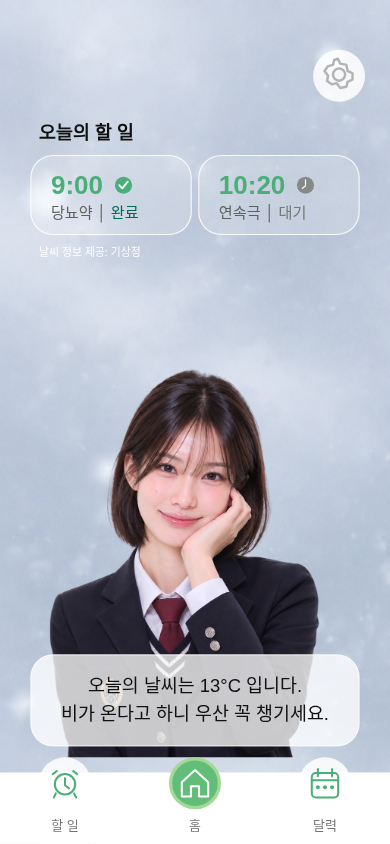
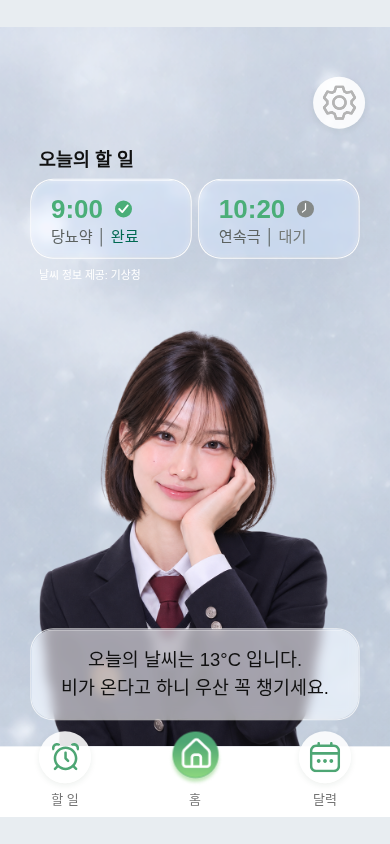
Refine home visuals using original design assets and updated captures

diff --git a/weather-schedule-app/src/components/home/HomeIcon.tsx b/weather-schedule-app/src/components/home/HomeIcon.tsx
@@ -1,11 +1,9 @@
-import Svg, { Circle, Path, Rect } from 'react-native-svg';
+import Svg, { Circle, Path, SvgXml } from 'react-native-svg';
+const originalIcons = {"home": "<svg width=\"30\" height=\"31\" viewBox=\"0 0 30 31\" fill=\"none\" xmlns=\"http://www.w3.org/2000/svg\">\n<path d=\"M28.3943 25.8993V15.7222C28.3943 14.9021 28.2285 14.0906 27.9069 13.337C27.5854 12.5835 27.1148 11.9036 26.5239 11.3388L16.9434 2.18345C16.385 1.64971 15.6442 1.35211 14.8739 1.35211C14.1037 1.35211 13.3629 1.64971 12.8044 2.18345L3.22247 11.3388C2.63153 11.9036 2.16097 12.5835 1.83942 13.337C1.51787 14.0906 1.35205 14.9021 1.35205 15.7222V25.8993C1.35205 26.7011 1.66862 27.47 2.23211 28.0369C2.7956 28.6039 3.55985 28.9224 4.35675 28.9224H25.3896C26.1865 28.9224 26.9508 28.6039 27.5142 28.0369C28.0777 27.47 28.3943 26.7011 28.3943 25.8993Z\" stroke-width=\"2.70423\" stroke-linecap=\"round\" stroke-linejoin=\"round\" stroke=\"white\"/>\n<path d=\"M10.3665 19.8526C10.3665 19.0508 10.683 18.2819 11.2465 17.715C11.81 17.148 12.5743 16.8295 13.3712 16.8295H16.3758C17.1727 16.8295 17.937 17.148 18.5005 17.715C19.064 18.2819 19.3805 19.0508 19.3805 19.8526V28.9217H10.3665V19.8526Z\" stroke-width=\"2.70423\" stroke-linecap=\"round\" stroke-linejoin=\"round\" stroke=\"white\"/>\n</svg>\n", "calendar": "<svg width=\"28\" height=\"29\" viewBox=\"0 0 28 29\" fill=\"none\" xmlns=\"http://www.w3.org/2000/svg\">\n<g clip-path=\"url(#clip0_7_419)\">\n<path d=\"M22.1667 2.33571H21V1.16785C21 0.85812 20.8771 0.561072 20.6583 0.342057C20.4395 0.123041 20.1428 0 19.8333 0C19.5239 0 19.2272 0.123041 19.0084 0.342057C18.7896 0.561072 18.6667 0.85812 18.6667 1.16785V2.33571H9.33333V1.16785C9.33333 0.85812 9.21042 0.561072 8.99162 0.342057C8.77283 0.123041 8.47609 0 8.16667 0C7.85725 0 7.5605 0.123041 7.34171 0.342057C7.12292 0.561072 7 0.85812 7 1.16785V2.33571H5.83333C4.28681 2.33756 2.80415 2.95337 1.71059 4.04804C0.617029 5.14272 0.0018525 6.62688 0 8.17498L0 22.1892C0.0018525 23.7373 0.617029 25.2215 1.71059 26.3162C2.80415 27.4109 4.28681 28.0267 5.83333 28.0285H22.1667C23.7132 28.0267 25.1959 27.4109 26.2894 26.3162C27.383 25.2215 27.9981 23.7373 28 22.1892V8.17498C27.9981 6.62688 27.383 5.14272 26.2894 4.04804C25.1959 2.95337 23.7132 2.33756 22.1667 2.33571V2.33571ZM2.33333 8.17498C2.33333 7.24578 2.70208 6.35463 3.35846 5.69759C4.01484 5.04054 4.90508 4.67142 5.83333 4.67142H22.1667C23.0949 4.67142 23.9852 5.04054 24.6415 5.69759C25.2979 6.35463 25.6667 7.24578 25.6667 8.17498V9.34284H2.33333V8.17498ZM22.1667 25.6928H5.83333C4.90508 25.6928 4.01484 25.3237 3.35846 24.6666C2.70208 24.0096 2.33333 23.1184 2.33333 22.1892V11.6785H25.6667V22.1892C25.6667 23.1184 25.2979 24.0096 24.6415 24.6666C23.9852 25.3237 23.0949 25.6928 22.1667 25.6928Z\" fill=\"#4EA674\"/>\n<path d=\"M14 19.2696C14.9665 19.2696 15.75 18.4853 15.75 17.5178C15.75 16.5504 14.9665 15.7661 14 15.7661C13.0335 15.7661 12.25 16.5504 12.25 17.5178C12.25 18.4853 13.0335 19.2696 14 19.2696Z\" fill=\"#4EA674\"/>\n<path d=\"M8.1665 19.2696C9.133 19.2696 9.9165 18.4853 9.9165 17.5178C9.9165 16.5504 9.133 15.7661 8.1665 15.7661C7.20001 15.7661 6.4165 16.5504 6.4165 17.5178C6.4165 18.4853 7.20001 19.2696 8.1665 19.2696Z\" fill=\"#4EA674\"/>\n<path d=\"M19.8335 19.2696C20.8 19.2696 21.5835 18.4853 21.5835 17.5178C21.5835 16.5504 20.8 15.7661 19.8335 15.7661C18.867 15.7661 18.0835 16.5504 18.0835 17.5178C18.0835 18.4853 18.867 19.2696 19.8335 19.2696Z\" fill=\"#4EA674\"/>\n</g>\n<defs>\n<clipPath id=\"clip0_7_419\">\n<rect width=\"28\" height=\"28.0285\" fill=\"white\"/>\n</clipPath>\n</defs>\n</svg>\n", "settings": "<svg width=\"31\" height=\"32\" viewBox=\"0 0 31 32\" fill=\"none\" xmlns=\"http://www.w3.org/2000/svg\" xmlns:xlink=\"http://www.w3.org/1999/xlink\">\n<use xlink:href=\"#stroke0_7_426\" fill=\"#B4B4B4\"/>\n<mask id=\"stroke1_7_426\" fill=\"white\">\n<use xlink:href=\"#stroke0_7_426\"/>\n</mask>\n<path d=\"M18.4673 7.75293e-07C18.7056 -0.000278979 18.9379 0.0751574 19.1307 0.21543C19.3234 0.355702 19.4666 0.553561 19.5396 0.780469L20.7771 4.62656C21.2935 4.87831 21.7916 5.16614 22.2677 5.48789L26.2192 4.63711C26.4522 4.58776 26.6948 4.61359 26.9121 4.71088C27.1294 4.80817 27.3103 4.9719 27.4286 5.17852L30.547 10.575C30.6662 10.7813 30.7168 11.0202 30.6915 11.2571C30.6662 11.494 30.5664 11.7168 30.4063 11.8934L27.6958 14.8852C27.7353 15.4587 27.7353 16.0343 27.6958 16.6078L30.4028 19.6066C30.5634 19.7828 30.6639 20.0054 30.6898 20.2423C30.7157 20.4793 30.6657 20.7183 30.547 20.925L27.4286 26.325C27.3098 26.531 27.1287 26.694 26.9114 26.7906C26.6941 26.8873 26.4518 26.9126 26.2192 26.8629L22.2677 26.0121C21.7942 26.3309 21.2974 26.618 20.7771 26.8734L19.5396 30.7195C19.4666 30.9464 19.3234 31.1443 19.1307 31.2846C18.9379 31.4248 18.7056 31.5003 18.4673 31.5H12.2306C11.9922 31.5003 11.7599 31.4248 11.5672 31.2846C11.3745 31.1443 11.2313 30.9464 11.1583 30.7195L9.92432 26.877C9.40544 26.6228 8.905 26.3327 8.42666 26.0086L4.47862 26.8629C4.24568 26.9122 4.00309 26.8864 3.78576 26.7891C3.56844 26.6918 3.38759 26.5281 3.26924 26.3215L0.15088 20.925C0.0316831 20.7187 -0.0189259 20.4798 0.0063471 20.2429C0.0316201 20.006 0.13147 19.7832 0.291505 19.6066L3.00205 16.6078C2.96292 16.0366 2.96292 15.4634 3.00205 14.8922L0.295021 11.8934C0.134431 11.7172 0.0339353 11.4946 0.00802911 11.2577C-0.017877 11.0207 0.0321447 10.7817 0.15088 10.575L3.26924 5.175C3.3881 4.96903 3.56917 4.80602 3.78645 4.70938C4.00374 4.61274 4.24605 4.58744 4.47862 4.63711L8.42666 5.49141C8.90518 5.16764 9.4056 4.87749 9.92432 4.62305L11.1618 0.780469C11.2344 0.554702 11.3766 0.357662 11.5679 0.217495C11.7592 0.0773282 11.9899 0.00120562 12.2271 7.75293e-07H18.4673ZM17.6446 2.25H13.0532L11.7771 6.22266L10.9157 6.64453C10.491 6.85289 10.081 7.09017 9.68877 7.35469L8.89424 7.89258L4.80908 7.01367L2.51338 10.9863L5.31533 14.0906L5.24502 15.0434C5.21267 15.5139 5.21267 15.9861 5.24502 16.4566L5.31533 17.4094L2.50987 20.5102L4.80205 24.4898L8.88721 23.6109L9.68526 24.1453C10.0765 24.4085 10.4852 24.6446 10.9087 24.852L11.77 25.2738L13.0532 29.25H17.6481L18.9349 25.2703L19.7927 24.852C20.2163 24.6463 20.6252 24.4114 21.0161 24.1488L21.8106 23.6109L25.8993 24.4898L28.1915 20.5102L25.3896 17.4094L25.4599 16.4566C25.4924 15.9849 25.4924 15.5116 25.4599 15.0398L25.3896 14.0871L28.195 10.9898L25.8958 7.01016L21.8071 7.88906L21.0126 7.35469C20.6217 7.09094 20.2129 6.85482 19.7892 6.64805L18.9349 6.22266L17.6446 2.25ZM15.3489 9C17.1391 9 18.856 9.71116 20.1219 10.977C21.3878 12.2429 22.0989 13.9598 22.0989 15.75C22.0989 17.5402 21.3878 19.2571 20.1219 20.523C18.856 21.7888 17.1391 22.5 15.3489 22.5C13.5587 22.5 11.8418 21.7888 10.576 20.523C9.31009 19.2571 8.59893 17.5402 8.59893 15.75C8.59893 13.9598 9.31009 12.2429 10.576 10.977C11.8418 9.71116 13.5587 9 15.3489 9ZM15.3489 11.25C14.1555 11.25 13.0109 11.7241 12.1669 12.568C11.323 13.4119 10.8489 14.5565 10.8489 15.75C10.8489 16.9435 11.323 18.0881 12.1669 18.932C13.0109 19.7759 14.1555 20.25 15.3489 20.25C16.5424 20.25 17.687 19.7759 18.5309 18.932C19.3748 18.0881 19.8489 16.9435 19.8489 15.75C19.8489 14.5565 19.3748 13.4119 18.5309 12.568C17.687 11.7241 16.5424 11.25 15.3489 11.25Z\" stroke-width=\"10\" stroke=\"#B4B4B4\" mask=\"url(#stroke1_7_426)\"/>\n<defs>\n<path id=\"stroke0_7_426\" d=\"M18.4673 7.75293e-07C18.7056 -0.000278979 18.9379 0.0751574 19.1307 0.21543C19.3234 0.355702 19.4666 0.553561 19.5396 0.780469L20.7771 4.62656C21.2935 4.87831 21.7916 5.16614 22.2677 5.48789L26.2192 4.63711C26.4522 4.58776 26.6948 4.61358 26.9121 4.71088C27.1294 4.80817 27.3103 4.9719 27.4286 5.17852L30.547 10.575C30.6662 10.7813 30.7168 11.0202 30.6915 11.2571C30.6662 11.494 30.5664 11.7168 30.4063 11.8934L27.6958 14.8852C27.7353 15.4587 27.7353 16.0343 27.6958 16.6078L30.4028 19.6066C30.5634 19.7828 30.6639 20.0054 30.6898 20.2423C30.7157 20.4793 30.6657 20.7183 30.547 20.925L27.4286 26.325C27.3098 26.531 27.1287 26.694 26.9114 26.7906C26.6941 26.8873 26.4518 26.9126 26.2192 26.8629L22.2677 26.0121C21.7942 26.3309 21.2974 26.618 20.7771 26.8734L19.5396 30.7195C19.4666 30.9464 19.3234 31.1443 19.1307 31.2846C18.9379 31.4248 18.7056 31.5003 18.4673 31.5H12.2306C11.9922 31.5003 11.7599 31.4248 11.5672 31.2846C11.3745 31.1443 11.2313 30.9464 11.1583 30.7195L9.92432 26.877C9.40544 26.6228 8.905 26.3327 8.42666 26.0086L4.47861 26.8629C4.24568 26.9122 4.00309 26.8864 3.78576 26.7891C3.56844 26.6918 3.38759 26.5281 3.26924 26.3215L0.15088 20.925C0.0316831 20.7187 -0.0189259 20.4798 0.0063471 20.2429C0.0316201 20.006 0.13147 19.7832 0.291505 19.6066L3.00205 16.6078C2.96292 16.0366 2.96292 15.4634 3.00205 14.8922L0.295021 11.8934C0.134431 11.7172 0.0339353 11.4946 0.00802911 11.2577C-0.017877 11.0207 0.0321447 10.7817 0.15088 10.575L3.26924 5.175C3.3881 4.96903 3.56917 4.80602 3.78645 4.70938C4.00374 4.61274 4.24606 4.58744 4.47861 4.63711L8.42666 5.49141C8.90518 5.16764 9.4056 4.87749 9.92432 4.62305L11.1618 0.780469C11.2344 0.554702 11.3766 0.357662 11.5679 0.217495C11.7592 0.0773282 11.9899 0.00120562 12.2271 7.75293e-07H18.4673ZM17.6446 2.25H13.0532L11.7771 6.22266L10.9157 6.64453C10.491 6.85289 10.081 7.09017 9.68877 7.35469L8.89424 7.89258L4.80908 7.01367L2.51338 10.9863L5.31533 14.0906L5.24502 15.0434C5.21267 15.5139 5.21267 15.9861 5.24502 16.4566L5.31533 17.4094L2.50987 20.5102L4.80205 24.4898L8.88721 23.6109L9.68526 24.1453C10.0765 24.4085 10.4852 24.6446 10.9087 24.852L11.77 25.2738L13.0532 29.25H17.6481L18.9349 25.2703L19.7927 24.852C20.2163 24.6463 20.6252 24.4114 21.0161 24.1488L21.8106 23.6109L25.8993 24.4898L28.1915 20.5102L25.3896 17.4094L25.4599 16.4566C25.4924 15.9849 25.4924 15.5115 25.4599 15.0398L25.3896 14.0871L28.195 10.9898L25.8958 7.01016L21.8071 7.88906L21.0126 7.35469C20.6217 7.09094 20.2129 6.85482 19.7892 6.64805L18.9349 6.22266L17.6446 2.25ZM15.3489 9C17.1391 9 18.856 9.71116 20.1219 10.977C21.3878 12.2429 22.0989 13.9598 22.0989 15.75C22.0989 17.5402 21.3878 19.2571 20.1219 20.523C18.856 21.7888 17.1391 22.5 15.3489 22.5C13.5587 22.5 11.8418 21.7888 10.576 20.523C9.31009 19.2571 8.59893 17.5402 8.59893 15.75C8.59893 13.9598 9.31009 12.2429 10.576 10.977C11.8418 9.71116 13.5587 9 15.3489 9ZM15.3489 11.25C14.1555 11.25 13.0109 11.7241 12.1669 12.568C11.323 13.4119 10.8489 14.5565 10.8489 15.75C10.8489 16.9435 11.323 18.0881 12.1669 18.932C13.0109 19.7759 14.1555 20.25 15.3489 20.25C16.5424 20.25 17.687 19.7759 18.5309 18.932C19.3748 18.0881 19.8489 16.9435 19.8489 15.75C19.8489 14.5565 19.3748 13.4119 18.5309 12.568C17.687 11.7241 16.5424 11.25 15.3489 11.25Z\"/>\n</defs>\n</svg>\n", "alarm": "<svg width=\"25\" height=\"26\" viewBox=\"0 0 25 26\" fill=\"none\" xmlns=\"http://www.w3.org/2000/svg\">\n<path d=\"M19.6582 2.45343C19.3945 2.53651 19.1064 2.5414 18.8672 2.40944C18.584 2.25305 18.291 2.10643 17.998 1.97447C17.4902 1.74477 17.3291 1.0801 17.7979 0.772195C18.5303 0.288351 19.4092 0.00488723 20.3516 0.00488723C22.9199 0.00488723 25 2.08688 25 4.6576C25 5.30273 24.8682 5.91853 24.6289 6.48057C24.4092 6.99374 23.7305 6.95953 23.4131 6.50012C23.2275 6.23132 23.0322 5.97229 22.8271 5.71815C22.6562 5.50311 22.6074 5.21964 22.6416 4.94595C22.6514 4.8531 22.6611 4.75535 22.6611 4.6576C22.6611 3.38202 21.626 2.35079 20.3564 2.35079C20.1172 2.35079 19.8828 2.38989 19.6631 2.45832L19.6582 2.45343ZM1.58691 6.49523C1.26953 6.95464 0.585937 6.98885 0.371094 6.47568C0.131836 5.91364 0 5.29784 0 4.65272C0 2.08199 2.08008 0 4.64844 0C5.59082 0 6.46973 0.283464 7.20215 0.767307C7.6709 1.07521 7.50977 1.73988 7.00195 1.96958C6.7041 2.10643 6.41602 2.24816 6.13281 2.40455C5.89356 2.53651 5.60059 2.53163 5.3418 2.44854C5.12207 2.38012 4.89258 2.34102 4.64844 2.34102C3.37402 2.34102 2.34375 3.37713 2.34375 4.64783C2.34375 4.74558 2.34863 4.84332 2.36328 4.93618C2.39746 5.20987 2.34863 5.49333 2.17773 5.70837C1.97266 5.96251 1.77734 6.22154 1.5918 6.49034L1.58691 6.49523ZM21.0938 14.0754C21.0938 9.32498 17.2461 5.47378 12.5 5.47378C7.75391 5.47378 3.90625 9.32498 3.90625 14.0754C3.90625 18.8259 7.75391 22.6771 12.5 22.6771C17.2461 22.6771 21.0938 18.8259 21.0938 14.0754ZM19.3604 22.6038C17.4854 24.114 15.0977 25.023 12.5 25.023C9.90234 25.023 7.51465 24.114 5.63965 22.6038L3.56445 24.6809C3.10547 25.1403 2.36328 25.1403 1.90918 24.6809C1.45508 24.2215 1.4502 23.4786 1.90918 23.0241L3.98438 20.947C2.4707 19.0654 1.5625 16.6755 1.5625 14.0754C1.5625 8.02985 6.45996 3.12788 12.5 3.12788C18.54 3.12788 23.4375 8.02985 23.4375 14.0754C23.4375 16.6755 22.5293 19.0654 21.0205 20.9421L23.0957 23.0192C23.5547 23.4786 23.5547 24.2215 23.0957 24.676C22.6367 25.1305 21.8945 25.1354 21.4404 24.676L19.3652 22.5989L19.3604 22.6038ZM13.6719 8.99265V13.5916L15.6738 15.5954C16.1328 16.0548 16.1328 16.7977 15.6738 17.2522C15.2148 17.7067 14.4727 17.7116 14.0186 17.2522L11.6748 14.9063C11.4551 14.6864 11.333 14.3882 11.333 14.0754V8.99265C11.333 8.34263 11.8555 7.81969 12.5049 7.81969C13.1543 7.81969 13.6768 8.34263 13.6768 8.99265H13.6719Z\" fill=\"#4EA674\"/>\n</svg>\n"} as const;
 export type IconName = 'home' | 'alarm' | 'calendar' | 'settings' | 'check' | 'clock';
 export function HomeIcon({ name, color = '#4AAE78', size = 28 }: { name: IconName; color?: string; size?: number }) {
+  if (name in originalIcons) return <SvgXml xml={originalIcons[name as keyof typeof originalIcons]} />;
   return <Svg width={size} height={size} viewBox="0 0 32 32" fill="none" stroke={color} strokeWidth={2} strokeLinecap="round" strokeLinejoin="round">
-    {name === 'home' && <Path d="M3 15 16 3l13 12v14H20V19h-8v10H3Z" />}
-    {name === 'calendar' && <><Rect x={3} y={6} width={26} height={24} rx={4}/><Path d="M9 2v7m14-7v7M3 13h26"/><Circle cx={9} cy={20} r={1}/><Circle cx={16} cy={20} r={1}/><Circle cx={23} cy={20} r={1}/></>}
-    {name === 'alarm' && <><Circle cx={16} cy={17} r={10}/><Path d="M16 11v7l4 3M4 7l4-3M24 4l4 3M7 26l-2 4m20-4 2 4"/></>}
-    {name === 'settings' && <><Path d="m12 3-1 4-4 1-3 4 3 4-1 4 4 3 4-1 3 4 5-1 1-4 4-2v-5l-4-2-1-5-5-1-2-4Z"/><Circle cx={16} cy={15} r={5}/></>}
     {name === 'check' && <><Circle cx={16} cy={16} r={14} fill={color} stroke="none"/><Path d="m9 16 5 5 9-11" stroke="white" strokeWidth={3}/></>}
     {name === 'clock' && <><Circle cx={16} cy={16} r={14} fill={color} stroke="none"/><Path d="M16 7v10l-5 4" stroke="white"/></>}
   </Svg>;

diff --git a/weather-schedule-app/src/screens/HomeScreen.tsx b/weather-schedule-app/src/screens/HomeScreen.tsx
@@ -1,3 +1,6 @@
+import { useRef, type ComponentRef } from 'react';
+import { BlurTargetView } from 'expo-blur';
+import { GlassBlurContext } from '../components/home/GlassSurface';
 import { StyleSheet, View, useWindowDimensions } from 'react-native';
 import { useSafeAreaInsets } from 'react-native-safe-area-context';
 import { WeatherBackground } from '../components/home/WeatherBackground';
@@ -15,34 +18,37 @@ const demoSchedules: HomeSchedule[] = [
   { id: '2', time: '10:20', title: '연속극', completed: false },
 ];
 export function HomeScreen({ weather, avatar }: { weather?: WeatherSnapshot; avatar?: AvatarDefinition }) {
+  const blurTarget = useRef<ComponentRef<typeof View>>(null);
   const demoWeather = useDemoWeather();
   const { width, height } = useWindowDimensions();
   const insets = useSafeAreaInsets();
   const availableHeight = height - insets.top - insets.bottom;
   const scale = Math.min(width / 360, availableHeight / 730);
-  const canvasHeight = availableHeight / scale;
-  return <View style={[styles.container, { paddingTop: insets.top, paddingBottom: insets.bottom }]}>
-    <View style={{ width: 360 * scale, height: availableHeight, overflow: 'hidden' }}>
+  const canvasHeight = 730;
+  return <GlassBlurContext.Provider value={blurTarget}><View style={[styles.container, { paddingTop: insets.top, paddingBottom: insets.bottom }]}>
+    <View style={{ width: 360 * scale, height: canvasHeight * scale, overflow: 'hidden' }}>
       <View style={{ width: 360, height: canvasHeight, transform: [{ scale }], transformOrigin: 'top left' }}>
-        <WeatherBackground condition={(weather ?? demoWeather).condition}/>
+        <BlurTargetView ref={blurTarget} style={StyleSheet.absoluteFill}>
+          <WeatherBackground condition={(weather ?? demoWeather).condition}/>
+          <AvatarView avatar={avatar}/>
+        </BlurTargetView>
         <View style={styles.settings}><HomeButton icon="settings" label="설정"/></View>
         <View style={styles.scheduleSection}>
           <HomeText accessibilityRole="header" style={styles.heading}>오늘의 할 일</HomeText>
           <View style={styles.cards}>{demoSchedules.map(schedule => <ScheduleCard key={schedule.id} schedule={schedule}/>)}</View>
           <HomeText style={styles.credit}>날씨 정보 제공: 기상청</HomeText>
         </View>
-        <AvatarView avatar={avatar}/>
         <WeatherMessage weather={weather ?? demoWeather}/>
         <BottomNavigation/>
       </View>
     </View>
-  </View>;
+  </View></GlassBlurContext.Provider>;
 }
 const styles = StyleSheet.create({
-  container: { flex: 1, backgroundColor: '#E8EDF1', alignItems: 'center' },
+  container: { flex: 1, backgroundColor: '#E8EDF1', alignItems: 'center', justifyContent: 'center' },
   settings: { position: 'absolute', top: 46, right: 23 },
   scheduleSection: { position: 'absolute', top: 108, left: 28, right: 28 },
-  heading: { fontSize: 17, fontWeight: '700', marginLeft: 8, marginBottom: 10 },
+  heading: { fontSize: 17, fontWeight: '700', marginLeft: 8, marginBottom: 7 },
   cards: { flexDirection: 'row', gap: 6 },
   credit: { color: '#FFF', fontSize: 10, marginTop: 7, marginLeft: 8 },
 });

diff --git a/weather-schedule-app/src/components/home/HomeButton.tsx b/weather-schedule-app/src/components/home/HomeButton.tsx
@@ -1,15 +1,19 @@
-import { Pressable, StyleSheet, View } from 'react-native';
+import { Image, Pressable, StyleSheet, View } from 'react-native';
 import { HomeIcon, type IconName } from './HomeIcon';
 import { HomeText } from './HomeText';
 export function HomeButton({ icon, label, selected = false, onPress }: { icon: IconName; label: string; selected?: boolean; onPress?: () => void }) {
+  const home = icon === 'home';
   return <Pressable accessibilityRole="button" accessibilityLabel={label} accessibilityState={{ selected, disabled: !onPress }} disabled={!onPress} onPress={onPress} style={styles.button}>
-    <View style={[styles.circle, selected && styles.selected]}><HomeIcon name={icon} color={selected ? '#FFF' : icon === 'settings' ? '#B1B4B2' : '#4AAE78'} size={icon === 'settings' ? 36 : 30}/></View>
+    <View style={[styles.circle, home && styles.home]}>
+      {home ? <Image source={require('../../../assets/design/refinement/buttons/Home button.png')} resizeMode="contain" style={styles.homeImage}/> : <HomeIcon name={icon}/>}
+    </View>
     {icon !== 'settings' && <HomeText style={styles.label}>{label}</HomeText>}
   </Pressable>;
 }
 const styles = StyleSheet.create({
-  button: { minWidth: 48, minHeight: 48, alignItems: 'center' },
-  circle: { width: 48, height: 48, borderRadius: 24, backgroundColor: 'rgba(255,255,255,0.85)', alignItems: 'center', justifyContent: 'center', elevation: 2 },
-  selected: { backgroundColor: '#62BD78', borderWidth: 3, borderColor: '#A3D896' },
+  button: { width: 48, minHeight: 48, alignItems: 'center' },
+  circle: { width: 48, height: 48, borderRadius: 24, backgroundColor: 'rgba(255,255,255,0.88)', alignItems: 'center', justifyContent: 'center', boxShadow: '0px 2px 6px rgba(20,70,40,0.08)' },
+  home: { backgroundColor: 'transparent', boxShadow: 'none' },
+  homeImage: { position: 'absolute', width: 75, height: 75, left: -13.5, top: -15 },
   label: { fontSize: 12, color: '#737373', marginTop: 5 },
 });

diff --git a/weather-schedule-app/src/components/home/ScheduleCard.tsx b/weather-schedule-app/src/components/home/ScheduleCard.tsx
@@ -1,15 +1,16 @@
 import { StyleSheet, View } from 'react-native';
+import { GlassSurface } from './GlassSurface';
 import { HomeText } from './HomeText';
 import { HomeIcon } from './HomeIcon';
 export interface HomeSchedule { id: string; time: string; title: string; completed: boolean }
 export function ScheduleCard({ schedule }: { schedule: HomeSchedule }) {
   return <View style={styles.card} accessible accessibilityLabel={`${schedule.time} ${schedule.title} ${schedule.completed ? '완료' : '대기'}`}>
-    <View style={styles.row}><HomeText style={styles.time}>{schedule.time}</HomeText><HomeIcon name={schedule.completed ? 'check' : 'clock'} size={18} color={schedule.completed ? '#4AAE78' : '#858987'}/></View>
+    <GlassSurface/><View style={styles.row}><HomeText style={styles.time}>{schedule.time}</HomeText><HomeIcon name={schedule.completed ? 'check' : 'clock'} size={18} color={schedule.completed ? '#4AAE78' : '#858987'}/></View>
     <HomeText style={styles.description}>{schedule.title} │ <HomeText style={{ color: schedule.completed ? '#006951' : '#747977', fontSize: 14 }}>{schedule.completed ? '완료' : '대기'}</HomeText></HomeText>
   </View>;
 }
 const styles = StyleSheet.create({
-  card: { flex: 1, height: 74, borderWidth: 1, borderColor: 'rgba(255,255,255,0.9)', borderRadius: 21, paddingHorizontal: 18, paddingVertical: 12, backgroundColor: 'rgba(255,255,255,0.2)' },
+  card: { flex: 1, height: 74, borderWidth: 1, borderColor: 'rgba(255,255,255,0.9)', borderRadius: 21, paddingHorizontal: 18, paddingVertical: 12, backgroundColor: 'rgba(255,255,255,0.08)' },
   row: { flexDirection: 'row', gap: 10, alignItems: 'center' },
   time: { fontSize: 24, lineHeight: 29, color: '#4AAE78', fontWeight: '700' },
   description: { fontSize: 14, color: '#5C6260' },

diff --git a/weather-schedule-app/src/components/home/WeatherBackground.tsx b/weather-schedule-app/src/components/home/WeatherBackground.tsx
@@ -1,4 +1,4 @@
-import { Image, StyleSheet } from 'react-native';
+import { Image, StyleSheet, View } from 'react-native';
 import { backgroundCondition } from '../../features/weather/presentation';
 import type { WeatherCondition } from '../../features/weather/types';
 const backgrounds = {
@@ -8,6 +8,9 @@ const backgrounds = {
   snow: require('../../../assets/design/weather-backgrounds/snowy.png'),
   thunder: require('../../../assets/design/weather-backgrounds/thunder.png'),
 };
+const whiteVeil = { clear: 0.357, cloudy: 0.059, rain: 0.481, snow: 0.145, thunder: 0.609 };
 export function WeatherBackground({ condition }: { condition: WeatherCondition }) {
-  return <Image testID={`weather-background-${condition}`} source={backgrounds[backgroundCondition(condition)]} style={StyleSheet.absoluteFill} resizeMode="cover" accessible={false} />;
+  return <View style={styles.layer}><Image testID={`weather-background-${condition}`} source={backgrounds[backgroundCondition(condition)]} style={StyleSheet.absoluteFill} resizeMode="cover" accessible={false} /><View pointerEvents="none" style={[StyleSheet.absoluteFill, { backgroundColor: `rgba(255,255,255,${whiteVeil[backgroundCondition(condition)]})` }]}/></View>;
 }
+
+const styles = StyleSheet.create({ layer: { position: 'absolute', top: 0, left: 0, right: 0, bottom: 66 } });

diff --git a/weather-schedule-app/src/components/home/WeatherMessage.tsx b/weather-schedule-app/src/components/home/WeatherMessage.tsx
@@ -1,11 +1,12 @@
 import { StyleSheet, View } from 'react-native';
+import { GlassSurface } from './GlassSurface';
 import { HomeText } from './HomeText';
 import { weatherMessage } from '../../features/weather/presentation';
 import type { WeatherSnapshot } from '../../features/weather/types';
 export function WeatherMessage({ weather }: { weather: WeatherSnapshot }) {
-  return <View style={styles.panel}><HomeText style={styles.text}>{weatherMessage(weather)}</HomeText></View>;
+  return <View style={styles.panel}><GlassSurface strong/><HomeText style={styles.text}>{weatherMessage(weather)}</HomeText></View>;
 }
 const styles = StyleSheet.create({
-  panel: { position: 'absolute', bottom: 90, left: 28, right: 28, minHeight: 85, borderRadius: 21, borderWidth: 1, borderColor: '#FFFFFFB0', backgroundColor: 'rgba(255,255,255,0.76)', padding: 14, justifyContent: 'center' },
+  panel: { position: 'absolute', bottom: 90, left: 28, right: 28, minHeight: 85, borderRadius: 21, borderWidth: 1, borderColor: '#FFFFFFB0', backgroundColor: 'rgba(255,255,255,0.12)', padding: 14, justifyContent: 'center' },
   text: { textAlign: 'center', fontSize: 17, lineHeight: 26, fontWeight: '500' },
 });

diff --git a/weather-schedule-app/src/components/home/GlassSurface.tsx b/weather-schedule-app/src/components/home/GlassSurface.tsx
@@ -1,0 +1,16 @@
+import { createContext, useContext, type RefObject, type ComponentRef } from 'react';
+import { BlurView } from 'expo-blur';
+import { StyleSheet, View } from 'react-native';
+export const GlassBlurContext = createContext<RefObject<ComponentRef<typeof View> | null> | undefined>(undefined);
+export function GlassSurface({ strong = false }: { strong?: boolean }) {
+  const target = useContext(GlassBlurContext);
+  return <View pointerEvents="none" style={styles.clip}>
+    <BlurView blurTarget={target} blurMethod="dimezisBlurViewSdk31Plus" intensity={strong ? 24 : 12} tint="light" style={StyleSheet.absoluteFill}/>
+    <View style={[StyleSheet.absoluteFill, { backgroundColor: strong ? 'rgba(255,255,255,0.42)' : 'rgba(255,255,255,0.10)' }]}/>
+    <View style={styles.highlight}/>
+  </View>;
+}
+const styles = StyleSheet.create({
+  clip: { position: 'absolute', top: 0, left: 0, right: 0, bottom: 0, borderRadius: 21, overflow: 'hidden' },
+  highlight: { position: 'absolute', top: 0, left: 0, right: 0, height: 1, backgroundColor: '#FFFFFFB0' },
+});

diff --git a/weather-schedule-app/assets/design/refinement/COMPARISON.md b/weather-schedule-app/assets/design/refinement/COMPARISON.md
@@ -1,0 +1,53 @@
+# 시각 보정 비교
+
+완성 시안의 Android 시스템 바 50px을 제외한 360×730 앱 영역을 기준으로 했습니다.
+390×844에서는 390×791 앱 영역을 중앙 배치하고 나머지는 레터박스로 처리합니다.
+실제 개발 서버 Chromium에서 8초 자동 전환을 따라 촬영한 PNG를 preview-screenshots에 저장했습니다.
+Figma 시안을 앱 화면 PNG로 대체하지 않았습니다.
+
+## 배경 비교
+
+배경 원본은 수정하지 않고 시안의 노출·대비에 맞춘 흰색 보정 레이어를 적용했습니다.
+아래는 공통 배경 노출 영역 RGB 평균 절대 오차(0~255)이며 글자·아바타·카드 영역은 제외했습니다.
+0은 픽셀 일치입니다. 폰트·렌더러와 배경 크롭 차이가 있어 완전한 픽셀 일치는 아닙니다.
+
+| 상태 | 캡처 크기 | 배경 오차 |
+|---|---|---|
+| clear | 390×844 | 11.4 |
+| cloudy | 390×844 | 12.3 |
+| rain | 390×844 | 6.9 |
+| snow | 390×844 | 9.4 |
+| thunder | 390×844 | 20.6 |
+
+## 원본·배치
+
+- SVG 원본 문자열을 SvgXml로 전달하며 경로·색상·stroke·viewBox·원본 치수를 변경하지 않았습니다.
+- 원본 XML은 HomeIcon.tsx와 icons/ 파일 간 문자열 일치 검사를 통과했습니다.
+- 홈 버튼 PNG를 재가공하지 않고 75×75 박스 안에 투명 여백까지 표시합니다. 실제 녹색 원은 약 50px이며 클릭 영역은 별도 Pressable입니다.
+- Navigation Bar.png는 제공본 그대로 보관하되 전체 바를 이미지로 대체하지 않았습니다.
+- 완료·대기 아이콘 원본은 ZIP에 없어 해당 두 아이콘은 기존 것을 유지했습니다.
+- 배경 블러는 expo-blur로 적용하고 표면 틴트·상단 하이라이트·테두리를 겹쳤습니다.
+- Android 31+는 blurTarget과 native blur를 사용하며 하위 버전은 반투명 표면으로 대체됩니다. 실제 기기의 blur 품질·성능은 미검증입니다.
+- 시스템 폰트는 유지합니다. 원본 폰트 파일이 없어 완전 일치는 보장하지 않습니다.
+- 아바타 기본 이미지를 유지하고 시안에 맞춰 표시 폭만 300으로 보정했습니다.
+
+## 검증
+
+TypeScript, Expo SDK 의존성 검사, 날씨 로직 테스트 2개, Android 번들 생성 통과.
+최종 웹 5상태 캡처 중 pageerror 0개, PNG 5개 모두 디코딩 성공 및 390×844 확인.
+날씨 순환 훅·날씨 처리 함수·아바타 타입·app.json은 기존 커밋과 바이트 일치합니다.
+
+
+
+## 저장 직전 최신 실행 검증
+
+현재 작업 트리에서 새 Expo 서버(8094)를 실행하고 Chromium 390×844에서 실제 8초 전환을 따라 재촬영했습니다. 화면 코드를 주입하거나 시안으로 캡처를 대체하지 않았습니다.
+최신 5상태의 pageerror는 0개이며 PNG 디코딩 검사가 통과했습니다.
+
+| PNG | SHA-256 |
+|---|---|
[5 lines of base64/hex data omitted]
